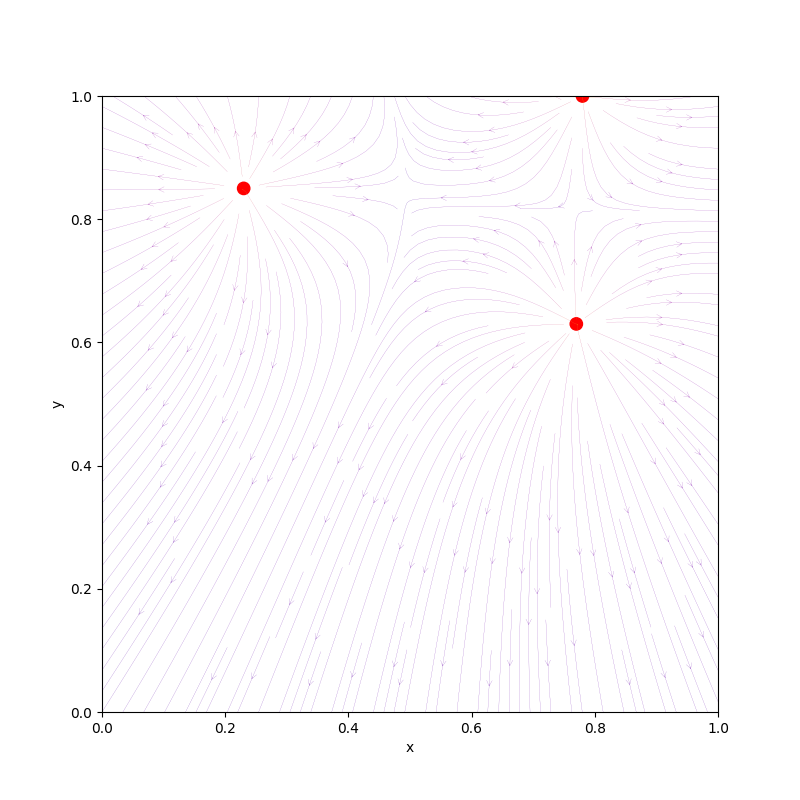
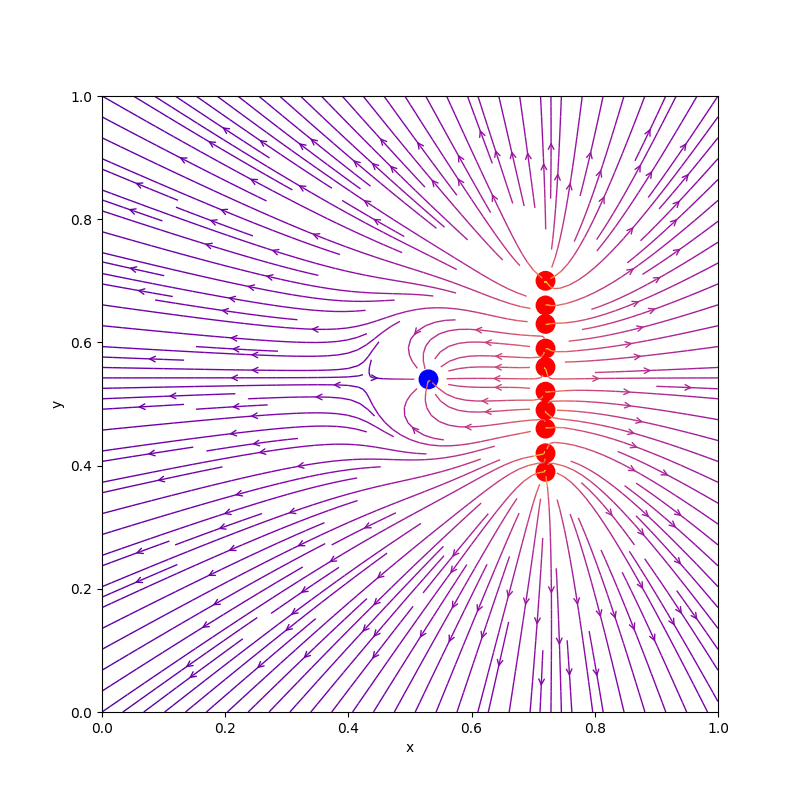
Final Version

Changed region(s): [[0.125, 0.125, 0.9062, 0.9062]]

diff --git a/app.py b/app.py
@@ -2,12 +2,12 @@ import constants as c
 import helpers as h
 import tkinter as tk
 
-# does not get imported automatically, so import it explicitly
+# wird nicht automatisch importiert, also explizit importieren
 from tkinter import HORIZONTAL, messagebox
 from tkinter import simpledialog
 from tkinter import ttk
 
-# apply method to create circle to tk.Canvas
+# eigene Methode, um Kreis zu erstellen, da sonst Probleme mit Koordinaten auftreten
 tk.Canvas.create_circle = h._create_circle
 
 
@@ -16,7 +16,7 @@ class App():
         """VARIABLEN"""
         self.add_charge = False
         self.remove_charge = False
-        self.counter = 0  # counts the number of charges
+        self.counter = 0  # Anzahl an Ladungen
 
         """ROOT"""
         self.parent = parent
@@ -147,10 +147,10 @@ class App():
         x, y = event.x, event.y  # Mausklick-Position
 
         if self.add_charge:
-            if len(h.charges) > 9:
+            if len(h.charges) > 30:
                 messagebox.showerror(
                     title="Zu viele Ladungen",
-                    message="Es können maximal 10 Ladungen eingefügt werden.",
+                    message="Es können maximal 30 Ladungen eingefügt werden.",
                 )
             else:
                 q = self.canvas.create_circle(
@@ -202,8 +202,6 @@ class App():
                     # Farbe basierend auf mathematischen Operator ändern (<0:blue, =0:grey, >0:red)
                     self.canvas.itemconfig(charge.item, fill='blue') if user_inp < 0 else self.canvas.itemconfig(
                         charge.item, fill='grey') if user_inp == 0 else self.canvas.itemconfig(charge.item, fill='red')
-                    # PLATZHALTER, UM GRÖßE DES KREISES JE NACH LADUNG ZU ÄNDERN
-                    # PLACEHOLDER FOR CHANGING SIZE OF OVAL WHEN CHARGE GETS BIGGER OR SMALLER
 
 
 root = tk.Tk()  # Root-Element initialisieren

diff --git a/helpers.py b/helpers.py
@@ -5,13 +5,6 @@ import numpy as np
 
 charges = []
 
-"""NOCH ERLEDIGEN:
--600 durch Konstante ersetzen
--generell neue Konstanten einführen
--Programm lesen und verstehen (besonders helpers.py)
--Auch Größe der Ladungen schon innerhalb des GUIs ändern, anstatt nur in matplotlib
-"""
-
 
 class Charge:
     def __init__(self, q, pos, item, record):
@@ -25,7 +18,7 @@ def _create_circle(self, x, y, r, **kwargs):  # x=xKoordinate, y=yKoordinate, r=
     return self.create_oval(x-r, y-r, x+r, y+r, **kwargs)
 
 
-"""CALCULATION ELECTRIC FIELD LINES"""
+"""BERECHNUNG ELEKTRISCHE FELDLINIEN"""
 
 # Formel, um elektrisches Feld durch eine Ladung zu berechnen
 
@@ -33,7 +26,7 @@ def _create_circle(self, x, y, r, **kwargs):  # x=xKoordinate, y=yKoordinate, r=
 def eFieldSingleCharge(charge, x, y):
     q = charge.q
     r0 = charge.pos
-    # berechnet Hypotenuse (Abstand Ladung und bestimmter Position)
+    # berechnet Hypotenuse (Abstand Ladung und bestimmte Position)
     distance = np.hypot(x - r0[0], y - r0[1])
     return q * (x - r0[0]) / (distance**3), q * (y - r0[1]) / (distance**3)
 
@@ -51,8 +44,6 @@ def eField(density, thickness):
     # Meshgrid verwenden, um Array aus Koordinaten für X und Y zu erstellen
 
     X, Y = np.meshgrid(x, y)
-
-    # Initialize our field components to be zero
 
     # Arrays mit der gewünschten Form gefüllt mit Nullen wiedergeben
     Ex = np.zeros((ny, nx))
@@ -76,7 +67,9 @@ def eField(density, thickness):
     color = np.log(np.hypot(Ex**2, Ey**2))
 
     # Mithilfe von streamplot Vektorfeld darstellen
-
+    np.set_printoptions(threshold=np.inf)
+    print(Ex)
+    print(Ey)
     splot.streamplot(x, y, Ex, Ey, color=color, linewidth=thickness,
                      cmap=plt.cm.plasma, density=density, arrowstyle='->', arrowsize=1)
 
